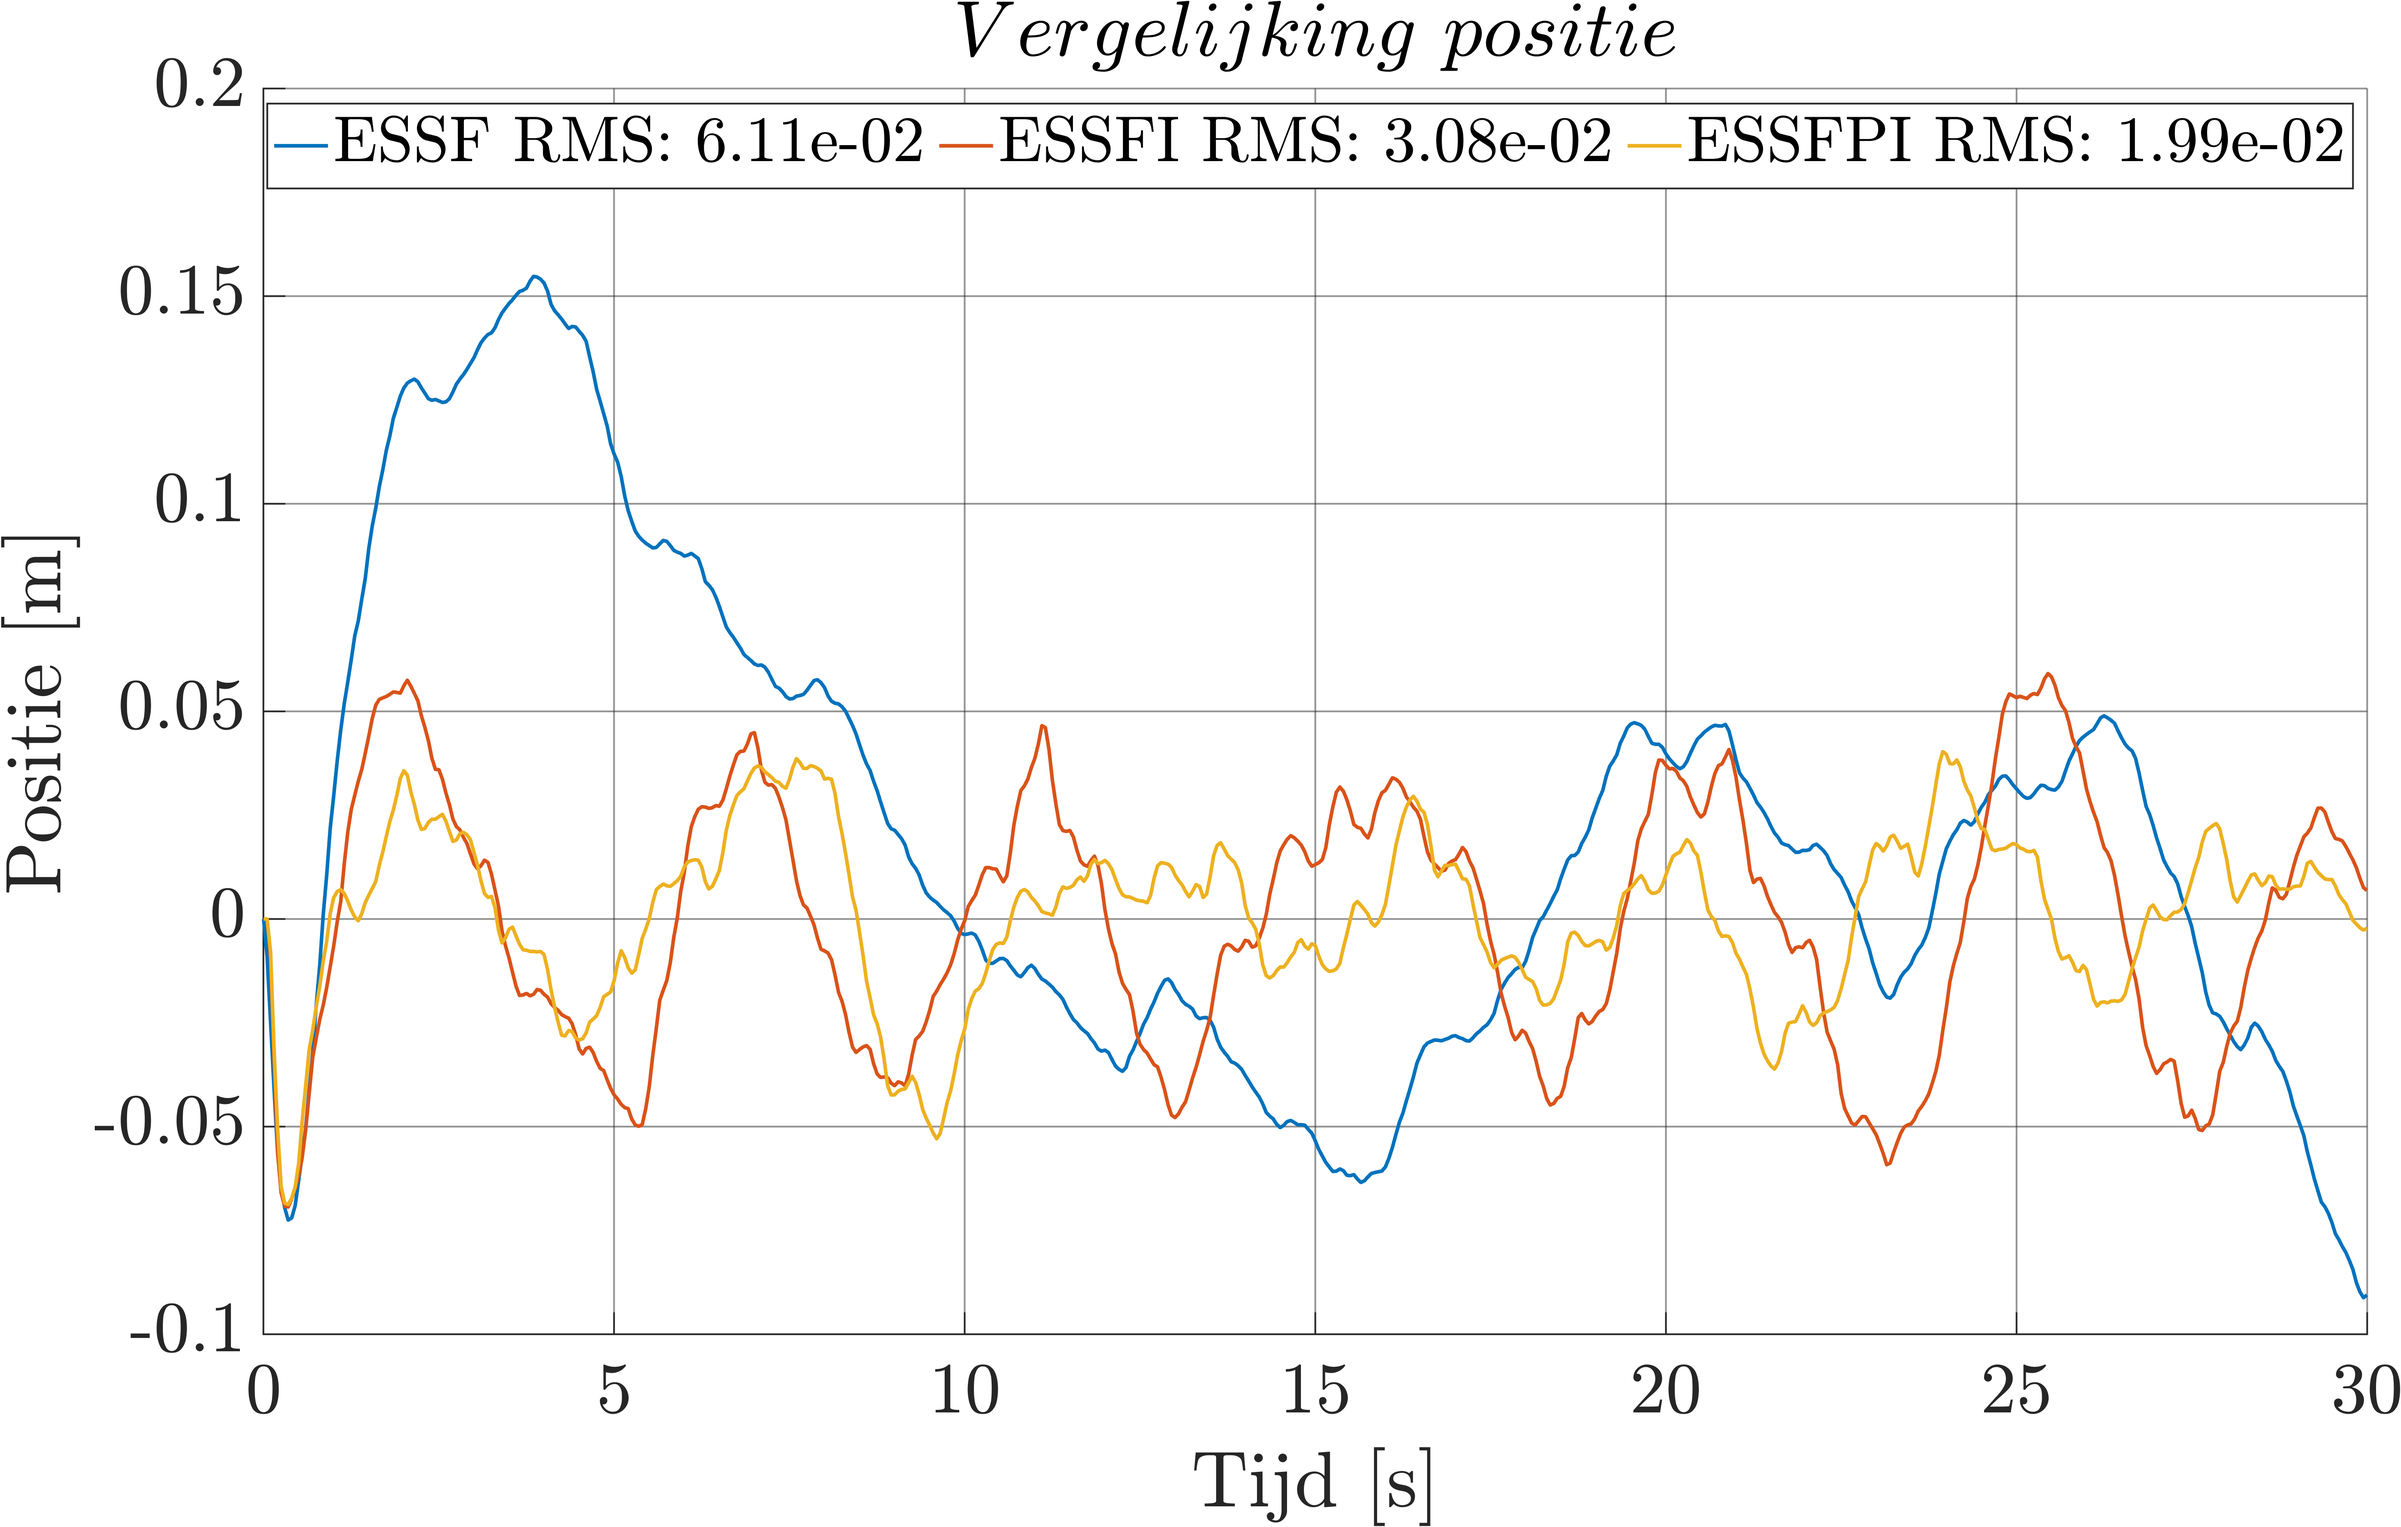
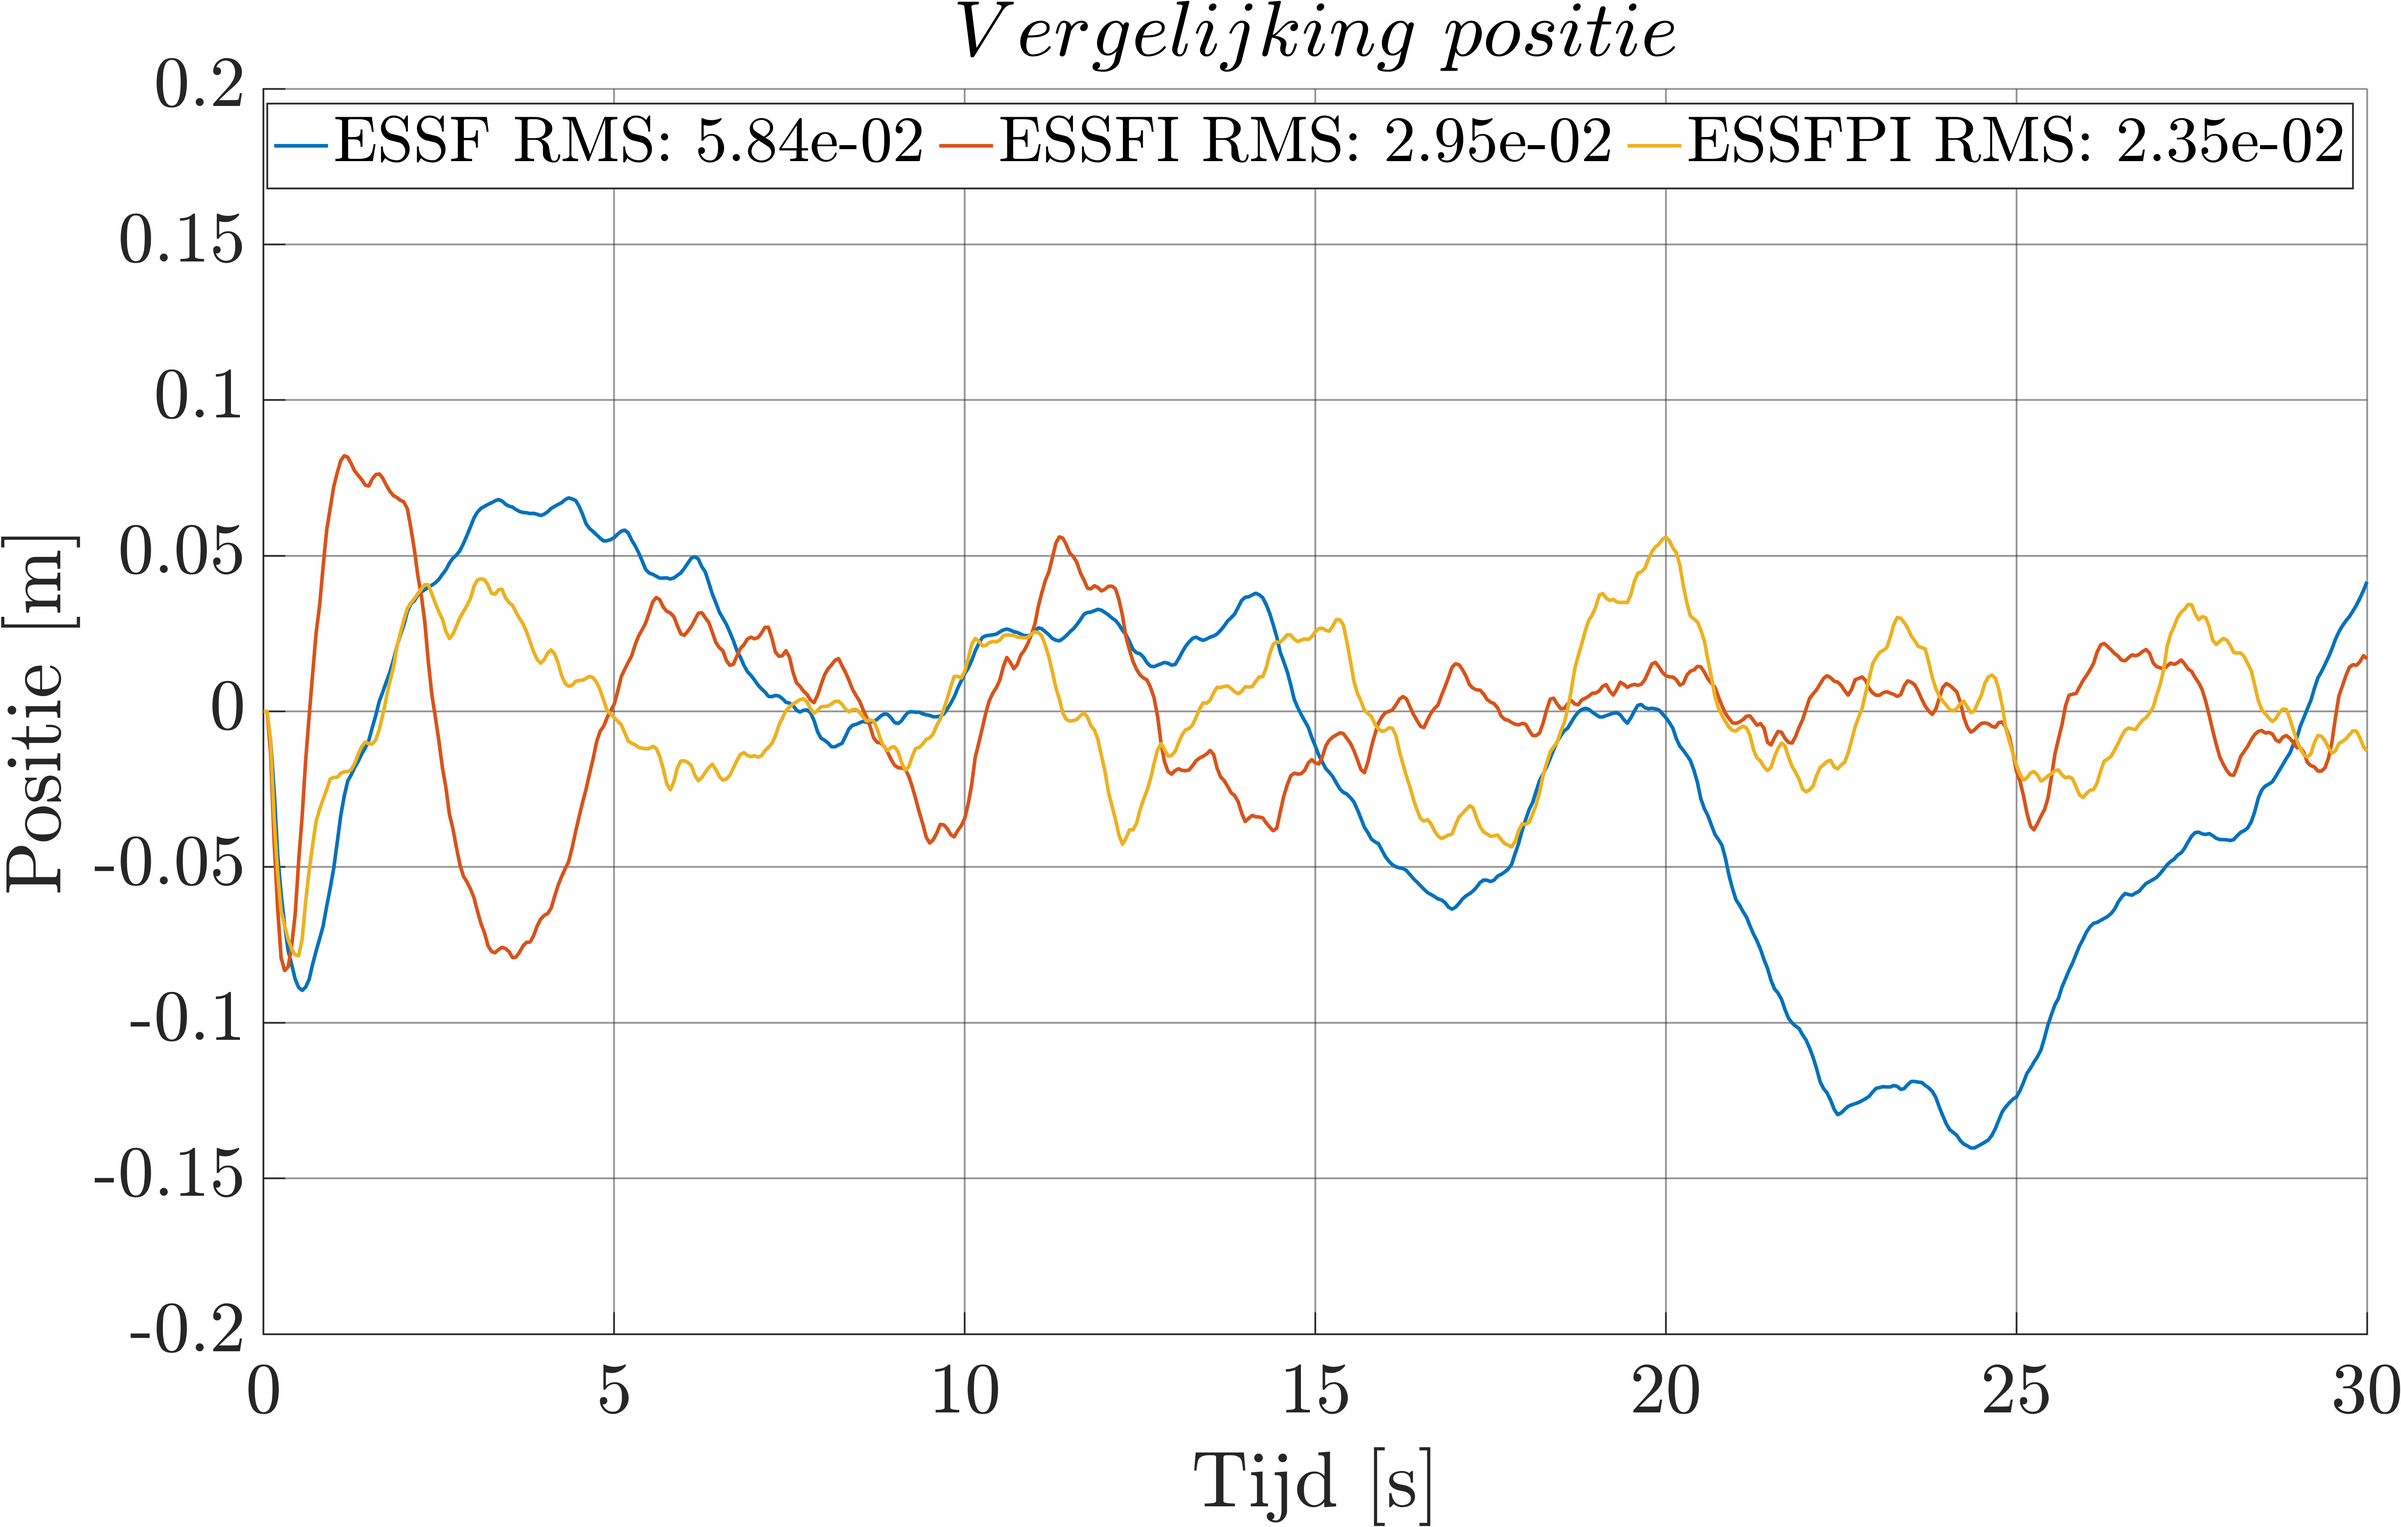
Legend Fix

diff --git a/Plot.m b/Plot.m
@@ -504,12 +504,13 @@ colororder({'b','r'})
 yyaxis left
 plot(ts,y(:,1),'b-','HandleVisibility','off')
 plot(ts,real_x_ESSF,'b:','HandleVisibility','off')
+ylim([-0.2 0.2])
 ylabel('Positie [m]')
 yyaxis right
 plot(ts,y(:,2),'r-','HandleVisibility','off')
 plot(ts,real_theta_ESSF,'r:','HandleVisibility','off')
 plot(nan,nan,'k-')
-plot(nan,nan,'k--')
+plot(nan,nan,'k:')
 plot(nan,nan,'w')
 plot(nan,nan,'w')
 ylabel('Hoek [rad]')
@@ -554,6 +555,7 @@ colororder({'b','r'})
 yyaxis left
 plot(ts,y(:,1),'b-','HandleVisibility','off')
 plot(ts,real_x_ESSFI,'b:','HandleVisibility','off')
+ylim([-0.2 0.2])
 ylabel('Positie [m]')
 yyaxis right
 plot(ts,y(:,2),'r-','HandleVisibility','off')
@@ -565,7 +567,7 @@ plot(nan,nan,'w')
 ylabel('Hoek [rad]')
 xlabel('Tijd [s]')
 title('\textbf{$State\ Space\ Feedback\ met\ Integrator$}','FontSize',45)
-legend('Simulatie','Werkelijke waarde',newline+"$x_0 = 0\ m$"+newline+"$v_0 = 0\ m/s$"+newline+"$\theta_0 = 0.1\ rad$"+newline+"$\omega_0 = 0\ rad/s$",'NumColumns',3,'Location','southeast')
+legend('Simulatie','Werkelijke waarde',newline+"$x_0 = 0\ m$"+newline+"$v_0 = 0\ m/s$"+newline+"$\theta_0 = 0.1\ rad$"+newline+"$\omega_0 = 0\ rad/s$",'NumColumns',3,'Location','northeast')
 %exportgraphics(F,PATH+"/Plots-Video/ESSF/ExtendedStateSpaceFeedback.png",'Resolution',300)
 %% ESSFPI Positie
 z = tf('z',Ts);
@@ -603,18 +605,19 @@ colororder({'b','r'})
 yyaxis left
 plot(ts,y(:,1),'b-','HandleVisibility','off')
 plot(ts,real_x_ESSFPI,'b:','HandleVisibility','off')
+ylim([-0.2 0.2])
 ylabel('Positie [m]')
 yyaxis right
 plot(ts,y(:,2),'r-','HandleVisibility','off')
 plot(ts,real_theta_ESSFPI,'r:','HandleVisibility','off')
 plot(nan,nan,'k-')
-plot(nan,nan,'k--')
+plot(nan,nan,'k:')
 plot(nan,nan,'w')
 plot(nan,nan,'w')
 ylabel('Hoek [rad]')
 xlabel('Tijd [s]')
 title('\textbf{$State\ Space\ Feedback\ met\ PI$}','FontSize',45)
-legend('Simulatie','Werkelijke waarde',newline+"$x_0 = 0\ m$"+newline+"$v_0 = 0\ m/s$"+newline+"$\theta_0 = 0.1\ rad$"+newline+"$\omega_0 = 0\ rad/s$",'Orientation','horizontal','Location','South')
+legend('Simulatie','Werkelijke waarde',newline+"$x_0 = 0\ m$"+newline+"$v_0 = 0\ m/s$"+newline+"$\theta_0 = 0.1\ rad$"+newline+"$\omega_0 = 0\ rad/s$",'Orientation','horizontal','Location','northeast')
 %exportgraphics(F,PATH+"/Plots-Video/ESSF/ExtendedStateSpaceFeedbackPI.png",'Resolution',300)
 %%
 F = figure;
@@ -622,6 +625,7 @@ hold on
 plot(ts,real_x_ESSF,'DisplayName',['ESSF RMS: ',num2str(rms(real_x_ESSF),'%.2e')])
 plot(ts,real_x_ESSFI,'DisplayName',['ESSFI RMS: ',num2str(rms(real_x_ESSFI),'%.2e')])
 plot(ts,real_x_ESSFPI,'DisplayName',['ESSFPI RMS: ',num2str(rms(real_x_ESSFPI),'%.2e')])
+ylim([-0.2 0.2])
 ylabel('Positie [m]')
 xlabel('Tijd [s]')
 title('$Vergelijking\ positie$')
